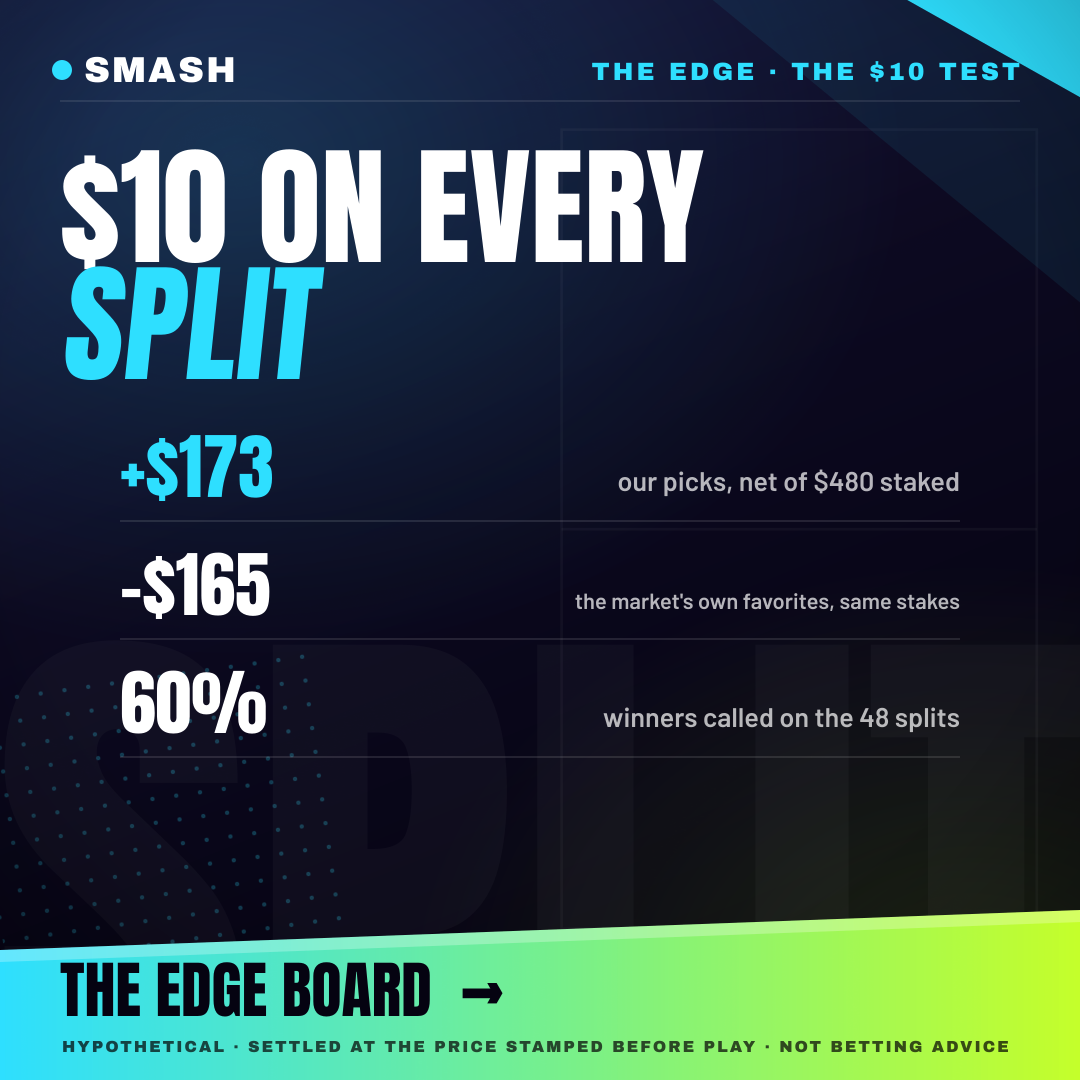
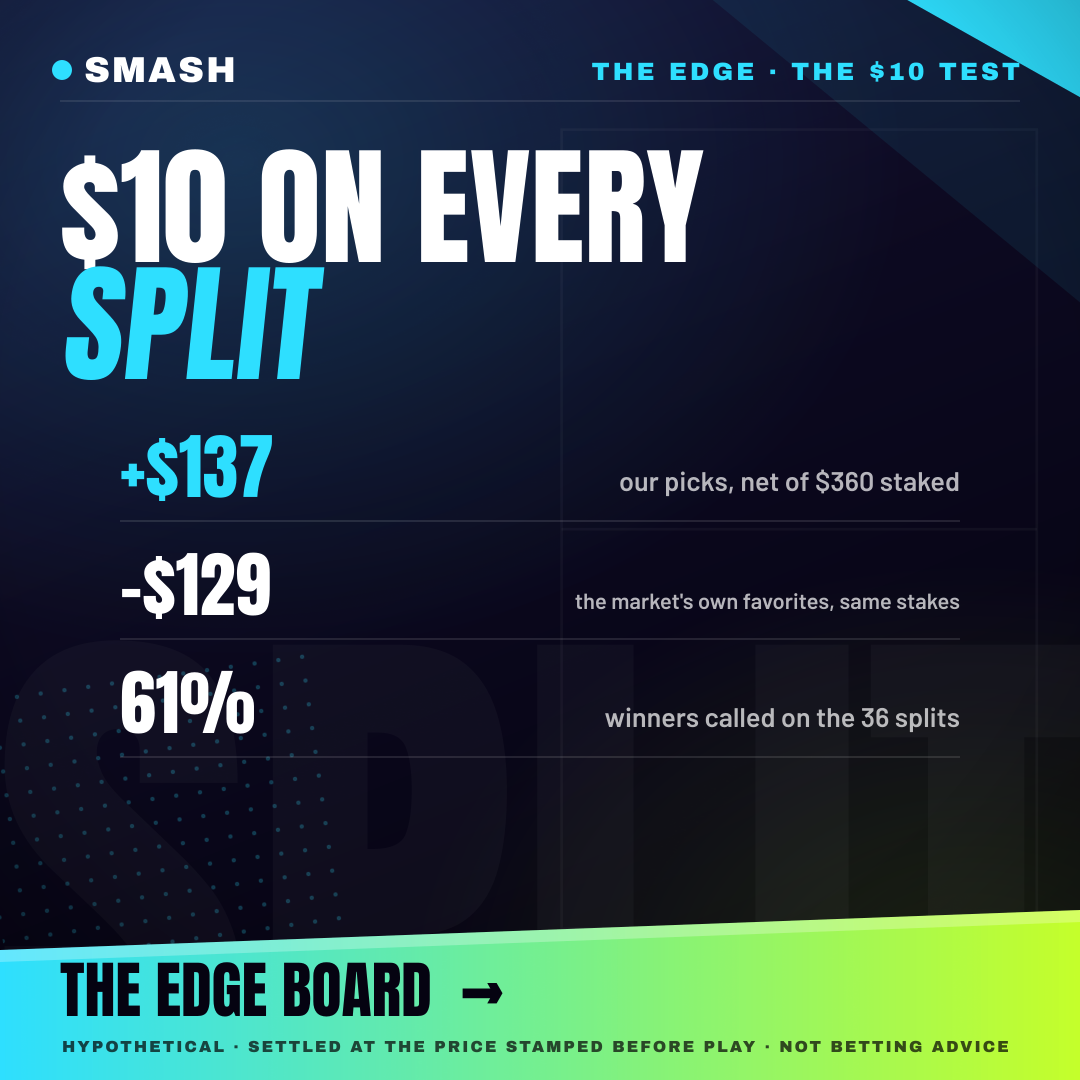
Guard the call thresholds against the record they are fitted on
The cutoffs come from track_record.json, which is resimulated with
end-of-season stats. Whether that matters had never been tested.

WHAT I GOT RIGHT AND WRONG. My first description of this was that the
resimulated probabilities are inflated. They are barely: joined to the forward
ledger on 209 identical matches, the resim is 1.5 points more accurate and no
more confident, which is inside noise at that sample. The level is roughly
honest.

The fault is at the boundary. Hindsight nudges probabilities toward the
eventual winner, so matches sitting either side of a cutoff get sorted by
result. The average hardly moves; the ordering at the edge does. And this
tuner reads nothing but the edge - its whole rule is the marginal band - so it
is maximally exposed to the one thing the contamination touches.

THE TEST USES THE BOOKMAKERS AS REFEREE. Their vig-free price is fixed before
play, so on any outcome-blind subset it should calibrate the same way. Split
the record by our own call/no-call classification:

  forward ledger   calls +4.6pt (1.2s)   no-calls +4.2pt (0.8s)
  resimulated      calls +7.2pt (5.1s)   no-calls -6.8pt (-3.1s)

On locked pre-match probabilities the groups are indistinguishable, and both
carry the same mild favourite-longshot bias every price band shows (checked
independently: all eight bands over-perform, +0.5 to +9.2pt). On the
resimulated record they pull 14 points apart, 5.4 sigma. A market cannot be
[…]

diff --git a/data-pipeline/tuneCallThreshold.js b/data-pipeline/tuneCallThreshold.js
@@ -69,6 +69,74 @@ function wilsonLo(k, n) {
   return ((p + z2 / (2 * n)) / d) - (z * Math.sqrt((p * (1 - p) + z2 / (4 * n)) / n)) / d;
 }
 
+// ── HINDSIGHT GUARD ────────────────────────────────────────────────────────
+//
+// track_record.json is RESIMULATED: its probabilities are computed with
+// end-of-season stats, so they know something about how the season went. The
+// question is whether that knowledge leaks into the thing this tuner reads.
+//
+// It does, and the test uses the BOOKMAKERS as the referee. Their vig-free
+// price is a probability fixed before the match, so on any subset chosen
+// without knowledge of the outcome it should be roughly calibrated. Split the
+// record by our own call/no-call classification and check:
+//
+//   resimulated   calls +7.2pt (5.1 sigma)   no-calls -6.8pt (-3.1 sigma)
+//   forward ledger calls +4.6pt (1.2 sigma)  no-calls +4.2pt (0.8 sigma)
+//
+// On locked pre-match probabilities the two groups are indistinguishable, and
+// both show the same mild favourite-longshot bias that every price band shows.
+// On the resimulated record they pull 14 points apart. A market cannot be
+// wrong in two opposite directions at once, so what differs is our sorting.
+//
+// The mechanism is specific and it is worse than a general inflation. On the
+// same 209 matches the resimulated model is only 1.5 points more accurate and
+// no more confident, so the LEVEL is roughly honest. What hindsight moves is
+// the ordering near the boundary: probabilities nudge toward the eventual
+// winner, and matches sitting either side of a cutoff get sorted by result.
+// The average barely shifts. The boundary is corrupted. And this tuner reads
+// nothing BUT the boundary - its whole rule is about the marginal band - so it
+// is maximally exposed to the one thing the contamination touches.
+//
+// Hence a guard rather than a correction: there is no honest scalar haircut
+// for "the ordering at the edge is wrong". When the input fails this test the
+// tuner refuses to lower any cutoff below the global default, because the bias
+// makes marginal bands look better than they are and so pushes cutoffs DOWN -
+// the opposite of the safe direction.
+function marketSplitCheck(rows, thresholdOf) {
+  const impliedFav = (m) => {
+    const o1 = Number(m.od1), o2 = Number(m.od2);
+    if (!(o1 > 1) || !(o2 > 1)) return null;
+    const q1 = 1 / o1, q2 = 1 / o2;
+    return (o1 <= o2 ? q1 : q2) / (q1 + q2);
+  };
+  const favWon = (m) => (m.oddCorrect != null ? !!m.oddCorrect : null);
+  const usable = rows.filter((m) => impliedFav(m) != null && favWon(m) != null);
+  const group = (list) => {
+    if (list.length < 60) return null;
+    const e = list.reduce((s, m) => s + impliedFav(m), 0) / list.length;
+    const a = list.filter(favWon).length / list.length;
+    const sd = Math.sqrt((e * (1 - e)) / list.length);
+    return { n: list.length, implied: e, actual: a, gap: a - e, sigma: sd > 0 ? (a - e) / sd : 0 };
+  };
+  const calls = group(usable.filter((m) => {
+    const p = favProb(m);
+    return p != null && p >= thresholdOf(m);
+  }));
+  const passes = group(usable.filter((m) => {
+    const p = favProb(m);
+    return p != null && p < thresholdOf(m);
+  }));
+  if (!calls || !passes) return { ok: true, reason: 'too few rows to judge', calls, passes };
+  // The DIFFERENCE between the groups is the signal. A uniform bias across
+  // both is the market's own; a split is ours.
+  const spread = calls.gap - passes.gap;
+  const sd = Math.sqrt(
+    (calls.implied * (1 - calls.implied)) / calls.n + (passes.implied * (1 - passes.implied)) / passes.n
+  );
+  const sigma = sd > 0 ? spread / sd : 0;
+  return { ok: Math.abs(sigma) < 3, spread, sigma, calls, passes };
+}
+
 function cellThreshold(rows) {
   const steps = [];
   for (let T = SWEEP_LO; T <= SWEEP_HI + 1e-9; T += STEP) steps.push(Number(T.toFixed(2)));
@@ -124,6 +192,24 @@ function build() {
     }
   }
 
+  // Run the guard against the cutoffs we just derived, since it is those we
+  // are asking to be trusted.
+  const thresholdOf = (m) => {
+    const c = cells[`${m.tour}|${m.surface}`];
+    return typeof c === 'number' ? c : fallback;
+  };
+  const check = marketSplitCheck(all, thresholdOf);
+  let floored = [];
+  if (!check.ok) {
+    // Bias direction: contaminated marginal bands look BETTER than they are,
+    // so the sweep stops too low. Never let a cutoff sit under the global
+    // default on evidence that failed this test - the default was not derived
+    // from the boundary and so is not exposed to the same fault.
+    for (const [key, v] of Object.entries(cells)) {
+      if (v < fallback) { cells[key] = fallback; floored.push(`${key} ${v}->${fallback}`); }
+    }
+  }
+
   // What the choice costs and buys, per cell, so the table is auditable
   // rather than a list of magic numbers.
   console.log('cell        graded   T     calls  call acc   passed  lean acc');
@@ -146,9 +232,39 @@ function build() {
     );
   }
 
+  console.log();
+  if (check.calls && check.passes) {
+    const f = (g) => `implied ${(100 * g.implied).toFixed(1)}% / actual ${(100 * g.actual).toFixed(1)}% (${g.gap >= 0 ? '+' : ''}${(100 * g.gap).toFixed(1)}pt, ${g.sigma.toFixed(1)}s, n=${g.n})`;
+    console.log('hindsight guard, bookmakers as referee:');
+    console.log(`  calls    ${f(check.calls)}`);
+    console.log(`  no-calls ${f(check.passes)}`);
+    console.log(`  spread   ${(100 * check.spread).toFixed(1)}pt (${check.sigma.toFixed(1)} sigma)`);
+  }
+  if (check.ok) {
+    console.log('  VERDICT: input looks clean; cutoffs stand as derived.');
+  } else {
+    console.warn('  VERDICT: FAILED. The record sorts calls and no-calls into groups the market');
+    console.warn('  prices differently, which it cannot do on outcome-blind data. The marginal');
+    console.warn('  bands this tuner reads are the part hindsight corrupts, so cutoffs are held');
+    console.warn(`  at or above the ${fallback} default${floored.length ? `: ${floored.join(', ')}` : ' (none needed lifting)'}.`);
+  }
+
   const out = {
     _comment: 'GENERATED by data-pipeline/tuneCallThreshold.js. Do not edit; re-run the tuner.',
     measuredAt: new Date().toISOString().slice(0, 10),
+    // Provenance. These are derived from the RESIMULATED record, and the
+    // guard says whether that record was fit to derive them from.
+    source: 'track_record.json (resimulated, end-of-season stats)',
+    hindsightGuard: check.calls && check.passes ? {
+      passed: check.ok,
+      callsGapPt: Number((100 * check.calls.gap).toFixed(2)),
+      passesGapPt: Number((100 * check.passes.gap).toFixed(2)),
+      spreadSigma: Number(check.sigma.toFixed(2)),
+      note: check.ok
+        ? 'market prices calibrate alike on both groups; cutoffs derived directly'
+        : 'market prices split across our own classification, so cutoffs are floored at the global default rather than taken as measured',
+      floored,
+    } : { passed: null, note: 'too few priced rows to judge' },
     method: `lowest cutoff from which every marginal ${BAND}-wide band above it clears a coin flip at 95% confidence`,
     fallback,
     minCellRows: MIN_CELL,

diff --git a/src/hindsightGuard.test.js b/src/hindsightGuard.test.js
@@ -1,0 +1,72 @@
+// The hindsight guard on the call-threshold tuner.
+//
+// The cutoffs are derived from track_record.json, which is RESIMULATED: its
+// probabilities are computed with end-of-season stats. That barely moves the
+// level (on 209 identical matches the resim is 1.5 points more accurate and no
+// more confident) but it reorders matches at the boundary, and the tuner's
+// entire rule is about the marginal band. So the input needs a test, and the
+// bookmakers supply one: their vig-free price is fixed before the match, so on
+// any outcome-blind subset it should calibrate the same way. Split by our own
+// call/no-call classification:
+//
+//   forward ledger  calls +4.6pt  no-calls +4.2pt   (indistinguishable)
+//   resimulated     calls +7.2pt  no-calls -6.8pt   (14pt apart, 5.4 sigma)
+//
+// A market cannot be wrong in two opposite directions at once, so the split is
+// ours. These tests pin the guard that catches it.
+import { describe, it, expect } from 'vitest';
+import fs from 'fs';
+import path from 'path';
+import CUTOFFS from './data/callThresholds.json';
+import CONFIG from './engineConfig.json';
+
+const read = (p) => fs.readFileSync(path.join(process.cwd(), p), 'utf8');
+
+describe('the hindsight guard', () => {
+  it('runs, and records its verdict alongside the cutoffs', () => {
+    expect(CUTOFFS.source).toMatch(/resimulated/i);
+    expect(CUTOFFS.hindsightGuard).toBeTruthy();
+    expect(typeof CUTOFFS.hindsightGuard.passed).toBe('boolean');
+    expect(typeof CUTOFFS.hindsightGuard.spreadSigma).toBe('number');
+  });
+
+  it('holds every cutoff at or above the global default while the input fails', () => {
+    // The bias makes marginal bands look better than they are, so the sweep
+    // stops too low. A failing input must never be allowed to LOWER a cutoff
+    // below the default, which was not derived from the boundary and so is not
+    // exposed to the same fault. On the current record this lifts atp|clay,
+    // which the contaminated sweep had put at 0.54.
+    if (CUTOFFS.hindsightGuard.passed === false) {
+      const floor = CONFIG.callThreshold;
+      for (const [cell, v] of Object.entries(CUTOFFS.cells)) {
+        expect(`${cell}: ${v} >= ${floor}`).toBe(`${cell}: ${Math.max(v, floor)} >= ${floor}`);
+      }
+    }
+  });
+
+  it('keeps the guard wired into the tuner rather than merely defined', () => {
+    const src = read('data-pipeline/tuneCallThreshold.js');
+    expect(src).toMatch(/marketSplitCheck\(all, thresholdOf\)/);
+    // It must actually gate the output, not just print a warning.
+    expect(src).toMatch(/if \(!check\.ok\)/);
+    expect(src).toMatch(/cells\[key\] = fallback/);
+  });
+
+  it('judges the SPREAD between groups, not either group alone', () => {
+    // Both groups show the market's own favourite-longshot bias (+4pt or so on
+    // clean data). Testing one group in isolation would fire on that and flag
+    // honest data forever; only the difference between them is our fault.
+    const src = read('data-pipeline/tuneCallThreshold.js');
+    expect(src).toMatch(/const spread = calls\.gap - passes\.gap/);
+  });
+
+  it('says the backtest is an upper bound wherever it is published', () => {
+    // The plan backtest reads the same resimulated record and currently
+    // reports roughly three times the forward return, so the number cannot
+    // travel without that context.
+    const backtest = JSON.parse(read('src/data/planBacktest.json'));
+    expect(backtest.source).toMatch(/resimulated/i);
+    expect(backtest.caveat).toMatch(/upper bound/i);
+    expect(read('src/components/StakingPlan.js')).toMatch(/upper bound/i);
+  });
+});

diff --git a/src/noCall.test.js b/src/noCall.test.js
@@ -69,14 +69,24 @@ describe('the rule is DERIVED, never trusted from the stored flag', () => {
   it('every cell threshold is justified by the record it was fitted on', () => {
     // Re-derives each published cutoff from track_record.json with the
     // tuner's own rule. A hand-edit to callThresholds.json fails here.
+    //
+    // The sweep is not the last word any more. When the hindsight guard fails
+    // - the bookmakers' prices calibrating differently across our own
+    // call/no-call split, which they cannot do on outcome-blind data - no
+    // cutoff is allowed below the global default, because the contamination
+    // makes marginal bands look better than they are and so pushes the sweep
+    // DOWN. On the current record that lifts atp|clay from 0.54 to 0.58, and
+    // this test caught the divergence the moment the guard started firing.
     const { cellThreshold } = require('../data-pipeline/tuneCallThreshold');
     const rows = JSON.parse(read('public/data/track_record.json')).matches || [];
+    const guardFailed = CALL_THRESHOLDS.hindsightGuard?.passed === false;
     for (const [key, T] of Object.entries(CALL_THRESHOLDS.cells)) {
       const [tour, surface] = key.split('|');
       const cell = rows.filter((m) => m.tour === tour && m.surface === surface);
       const raw = cellThreshold(cell);
-      const clamped = Math.min(CALL_THRESHOLDS.clamp[1], Math.max(CALL_THRESHOLDS.clamp[0], raw));
-      expect(`${key}: ${clamped}`).toBe(`${key}: ${T}`);
+      let expected = Math.min(CALL_THRESHOLDS.clamp[1], Math.max(CALL_THRESHOLDS.clamp[0], raw));
+      if (guardFailed) expected = Math.max(expected, CONFIG.callThreshold);
+      expect(`${key}: ${expected}`).toBe(`${key}: ${T}`);
     }
   });
 

diff --git a/src/components/StakingPlan.js b/src/components/StakingPlan.js
@@ -352,6 +352,21 @@ export default function StakingPlan({ legs, graded = [], onDrop = null }) {
                   money at risk and {(BACKTEST.spread.maxDD / BACKTEST.edge.maxDD).toFixed(1)}× the drawdown.
                 </p>
                 <p>
+                  {/* The backtest runs on the RESIMULATED record, whose
+                      probabilities are computed with end-of-season stats. On
+                      identical matches that costs only about 1.5 points of
+                      accuracy, but it reorders matches at the margin, which is
+                      exactly where a staking rule decides what to fund. The
+                      forward figure is a third of the backtested one, and a
+                      reader comparing the two deserves to be told why rather
+                      than left to assume one of them is a lie. */}
+                  Treat that as an upper bound. The replay uses season-end stats, so it knows a little
+                  about how each match turned out, and the effect lands hardest on the marginal calls a
+                  staking rule lives or dies on. The number that owes nobody an asterisk is the strip at
+                  the top of this page: every day actually locked before play, currently a third of the
+                  backtested return.
+                </p>
+                <p>
                   Picking a different plan each morning based on that morning&apos;s numbers would be
                   fitting to noise, so the recommendation does not move. You can still override it: the
                   menu above switches the plan and every number on this page follows.

diff --git a/data-pipeline/expPlanPolicies.js b/data-pipeline/expPlanPolicies.js
@@ -228,6 +228,14 @@ async function main() {
   };
   if (out.edge && out.spread) {
     const fs = require('fs');
+    // Provenance travels with the number. This replay reads the resimulated
+    // record, so its probabilities carry a little knowledge of how matches
+    // turned out - small in aggregate (about 1.5 points of accuracy on
+    // identical matches) but concentrated exactly at the margin, where a
+    // staking rule decides what to fund. The forward ledger currently returns
+    // roughly a third of what this reports on the same policy.
+    out.source = 'track_record.json (resimulated, end-of-season stats)';
+    out.caveat = 'upper bound: marginal calls are hindsight-ordered; the forward ledger is the clean measure';
     const dest = path.join(__dirname, '..', 'src', 'data', 'planBacktest.json');
     fs.writeFileSync(dest, `${JSON.stringify(out, null, 2)}\n`);
     console.log(`\nwrote src/data/planBacktest.json (edge ${out.edge.roi}% over ${out.edge.days} staked days)`);
